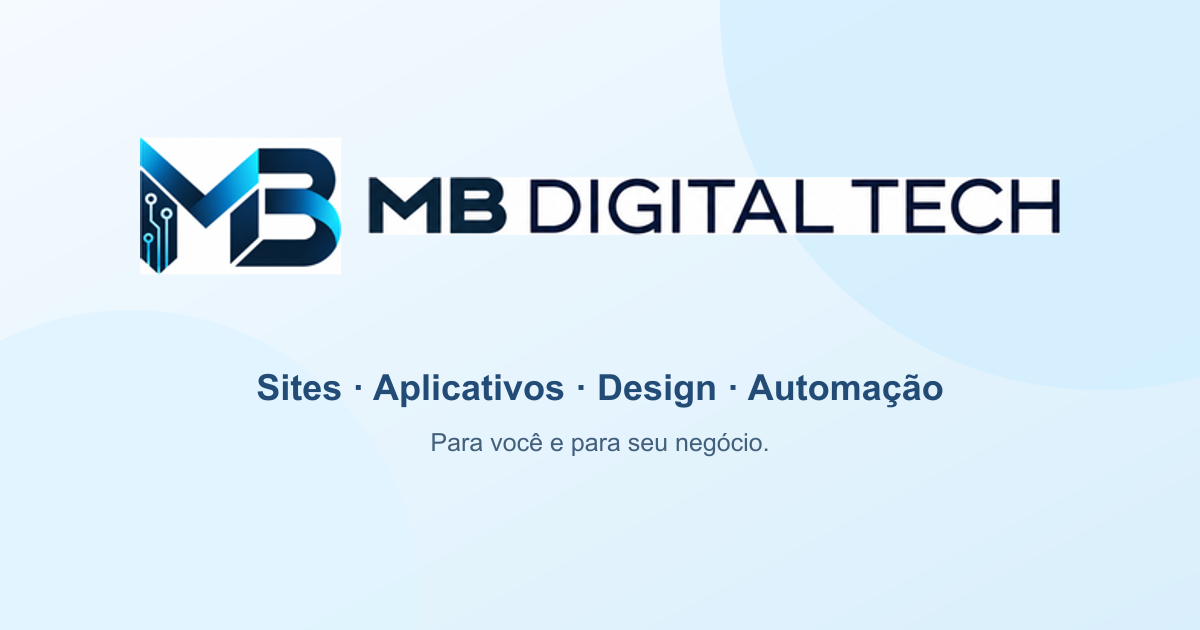
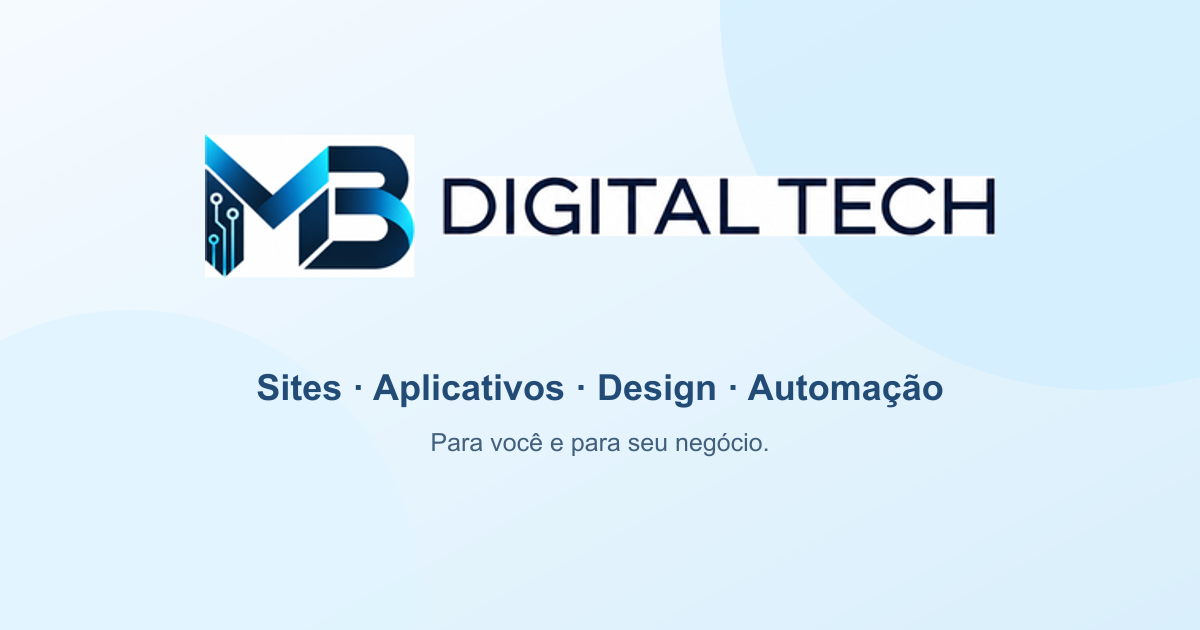
Ajustar logotipo para símbolo MB + DIGITAL TECH

Changed region(s): [[0.0925, 0.2111, 0.8942, 0.4524]]

diff --git a/app/page.tsx b/app/page.tsx
@@ -52,7 +52,7 @@ export default function Home() {
       <header className="site-header">
         <div className="container header-inner">
           <Link href="/" className="brand brand-logo" aria-label="MB Digital Tech, página inicial">
-            <Image src="/mb-digital-tech-logo.png" alt="MB Digital Tech" width={605} height={98} priority />
+            <Image src="/mb-digital-tech-logo.png" alt="MB Digital Tech" width={499} height={98} priority />
           </Link>
           <nav className="desktop-nav" aria-label="Menu principal">
             <a href="#solucoes">Soluções</a>
@@ -219,7 +219,7 @@ export default function Home() {
         <div className="container footer-grid">
           <div>
             <Link href="/" className="brand brand-logo footer-brand" aria-label="MB Digital Tech, início">
-              <Image src="/mb-digital-tech-logo.png" alt="MB Digital Tech" width={605} height={98} />
+              <Image src="/mb-digital-tech-logo.png" alt="MB Digital Tech" width={499} height={98} />
             </Link>
             <p>Soluções digitais para pessoas e negócios. Atendimento online em todo o Brasil.</p>
           </div>

diff --git a/app/orcamento/page.tsx b/app/orcamento/page.tsx
@@ -1,4 +1,5 @@
 import Link from "next/link";
+import Image from "next/image";
 import type { Metadata } from "next";
 import QuoteForm from "./QuoteForm";
 import styles from "./orcamento.module.css";
@@ -17,11 +18,7 @@ export default function OrcamentoPage() {
 
       <header className={styles.header}>
         <Link href="/" className={styles.brand} aria-label="MB Digital Tech - início">
-          <span className={styles.mark}>MB</span>
-          <span className={styles.brandText}>
-            <strong>MB</strong>
-            <small>DIGITAL TECH</small>
-          </span>
+          <Image src="/mb-digital-tech-logo.png" alt="MB Digital Tech" width={499} height={98} className={styles.logoImage} priority />
         </Link>
         <Link href="/" className={styles.back}>← Voltar ao site</Link>
       </header>

diff --git a/app/cliente/page.tsx b/app/cliente/page.tsx
@@ -1,4 +1,5 @@
 import Link from "next/link";
+import Image from "next/image";
 import styles from "./cliente.module.css";
 
 export const metadata = {
@@ -13,11 +14,7 @@ export default function ClientePage() {
 
       <header className={styles.header}>
         <Link href="/" className={styles.brand}>
-          <span className={styles.mark}>MB</span>
-          <span>
-            <strong>MB</strong>
-            <small>DIGITAL TECH</small>
-          </span>
+          <Image src="/mb-digital-tech-logo.png" alt="MB Digital Tech" width={499} height={98} className={styles.logoImage} priority />
         </Link>
         <Link href="/" className={styles.back}>← Voltar ao site</Link>
       </header>

diff --git a/app/orcamento/orcamento.module.css b/app/orcamento/orcamento.module.css
@@ -508,3 +508,5 @@
 }
 .whatsappButton:hover { background:#0c663b; }
 .choice input:focus-visible + span {outline:3px solid #1c82da;outline-offset:2px;}
+
+.logoImage { display: block; width: 225px; max-width: 100%; height: auto; }

diff --git a/app/cliente/cliente.module.css b/app/cliente/cliente.module.css
@@ -245,3 +245,5 @@
   .card { padding: 22px; }
   .footer { gap: 20px; }
 }
+
+.logoImage { display: block; width: 225px; max-width: 100%; height: auto; }
